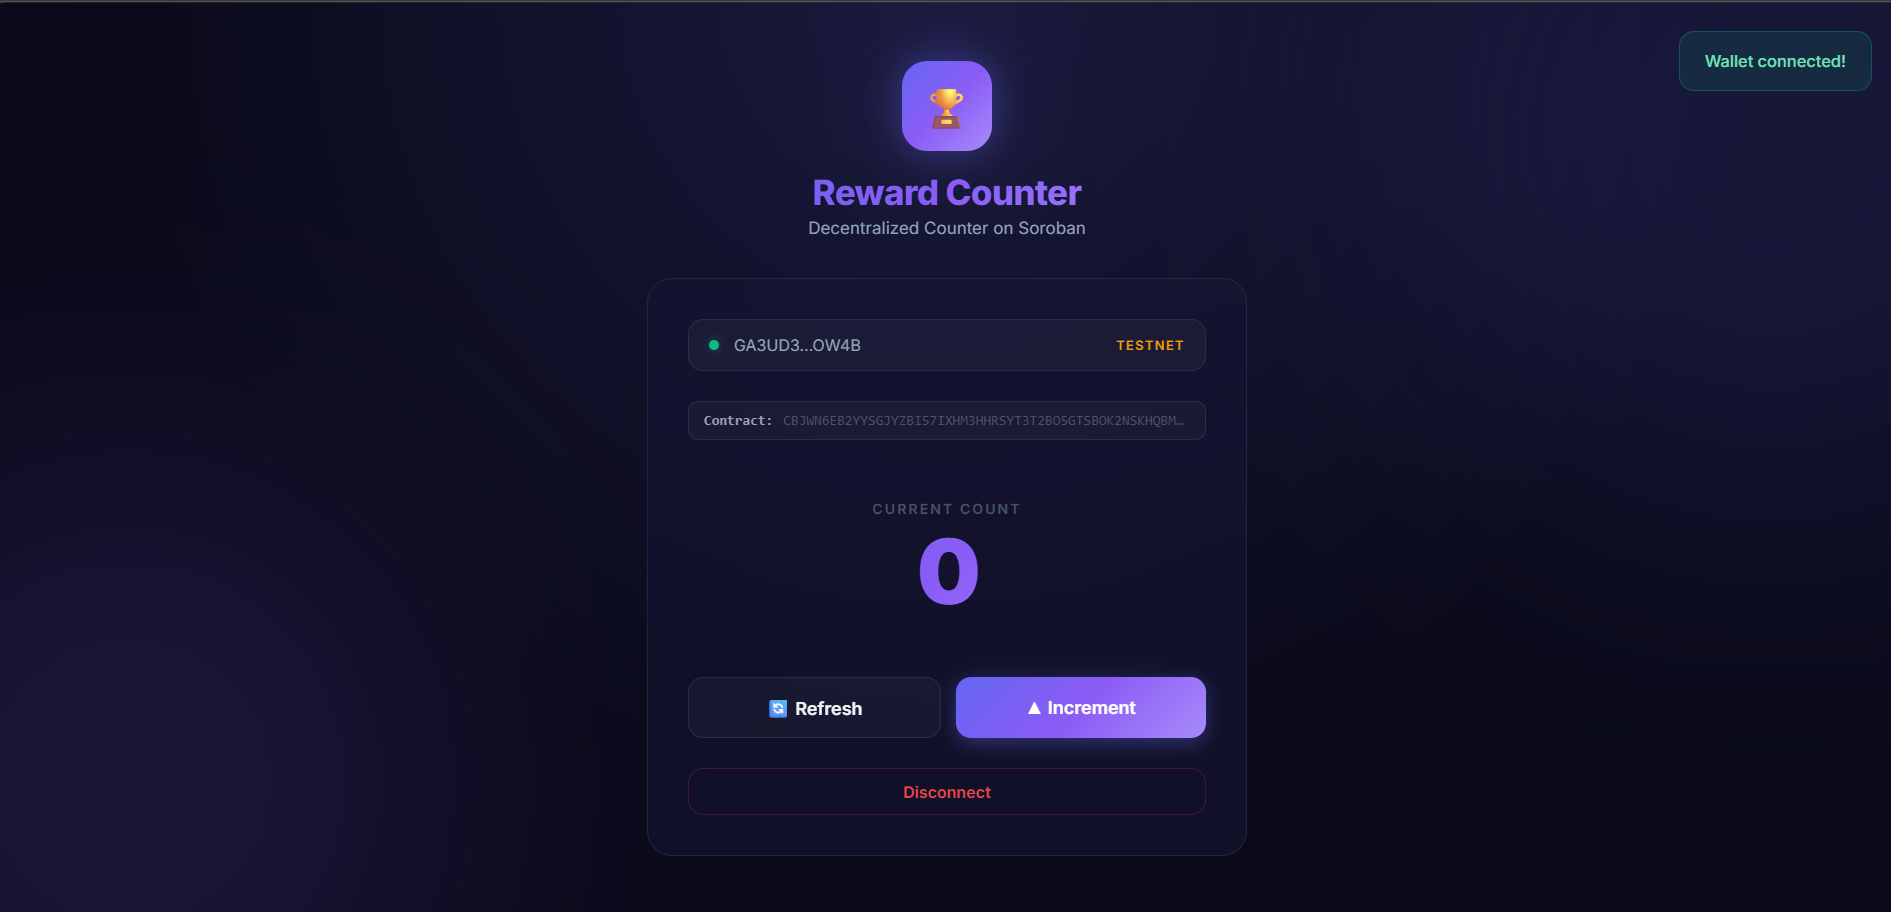
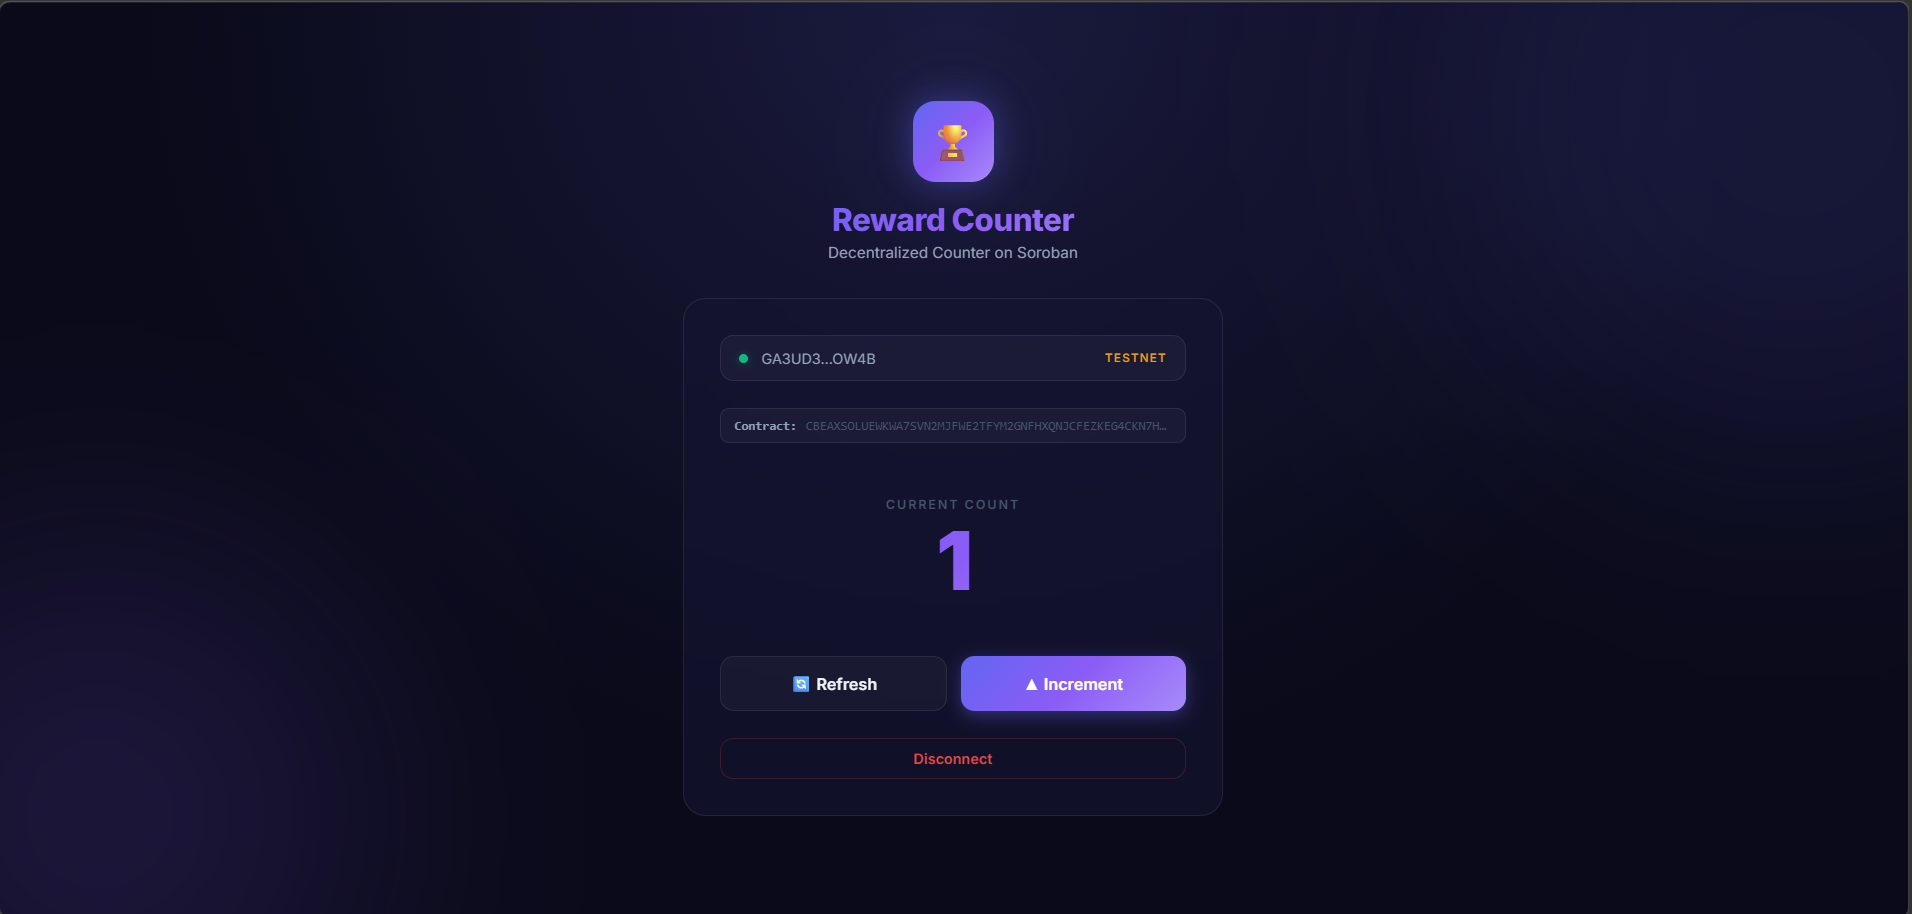
chore: update contract ID and add deployment links to README and documentation images

diff --git a/README.md b/README.md
@@ -3,7 +3,9 @@
 A premium, decentralized Reward Counter application built on the **Stellar Soroban** blockchain. This dApp allows users to connect their Freighter wallet and securely increment a global counter on the blockchain.
 
 ## 🔗 Live Implementation
-*   **Contract ID:** `CBJWN6EB2YYSGJYZBI57IXHM3HHRSYT3T2BO5GTSBOK2NSKHQBMLVPDJ`
+*   **Contract ID:** `CBEAXSOLUEWKWA7SVN2MJFWE2TFYM2GNFHXQNJCFEZKEG4CKN7HKN222`
+*   **Deploy Transaction:** [View on Stellar Expert](https://stellar.expert/explorer/testnet/tx/32c4175df88564cdd16a823c878b69446339af0fa5062539715335456f5cfe63)
+*   **Stellar Laboratory:** [Interact with Contract](https://lab.stellar.org/r/testnet/contract/CBEAXSOLUEWKWA7SVN2MJFWE2TFYM2GNFHXQNJCFEZKEG4CKN7HKN222)
 *   **Network:** Stellar Testnet
 *   **RPC Endpoint:** `https://soroban-testnet.stellar.org`
 
@@ -51,7 +53,7 @@ npm install
 ### 2. Configure Environment
 Create a `.env` file in the `frontend` folder (one is provided for you):
 ```env
-VITE_CONTRACT_ID=CBJWN6EB2YYSGJYZBI57IXHM3HHRSYT3T2BO5GTSBOK2NSKHQBMLVPDJ
+VITE_CONTRACT_ID=CBEAXSOLUEWKWA7SVN2MJFWE2TFYM2GNFHXQNJCFEZKEG4CKN7HKN222
 VITE_RPC_URL=https://soroban-testnet.stellar.org
 ```
 
